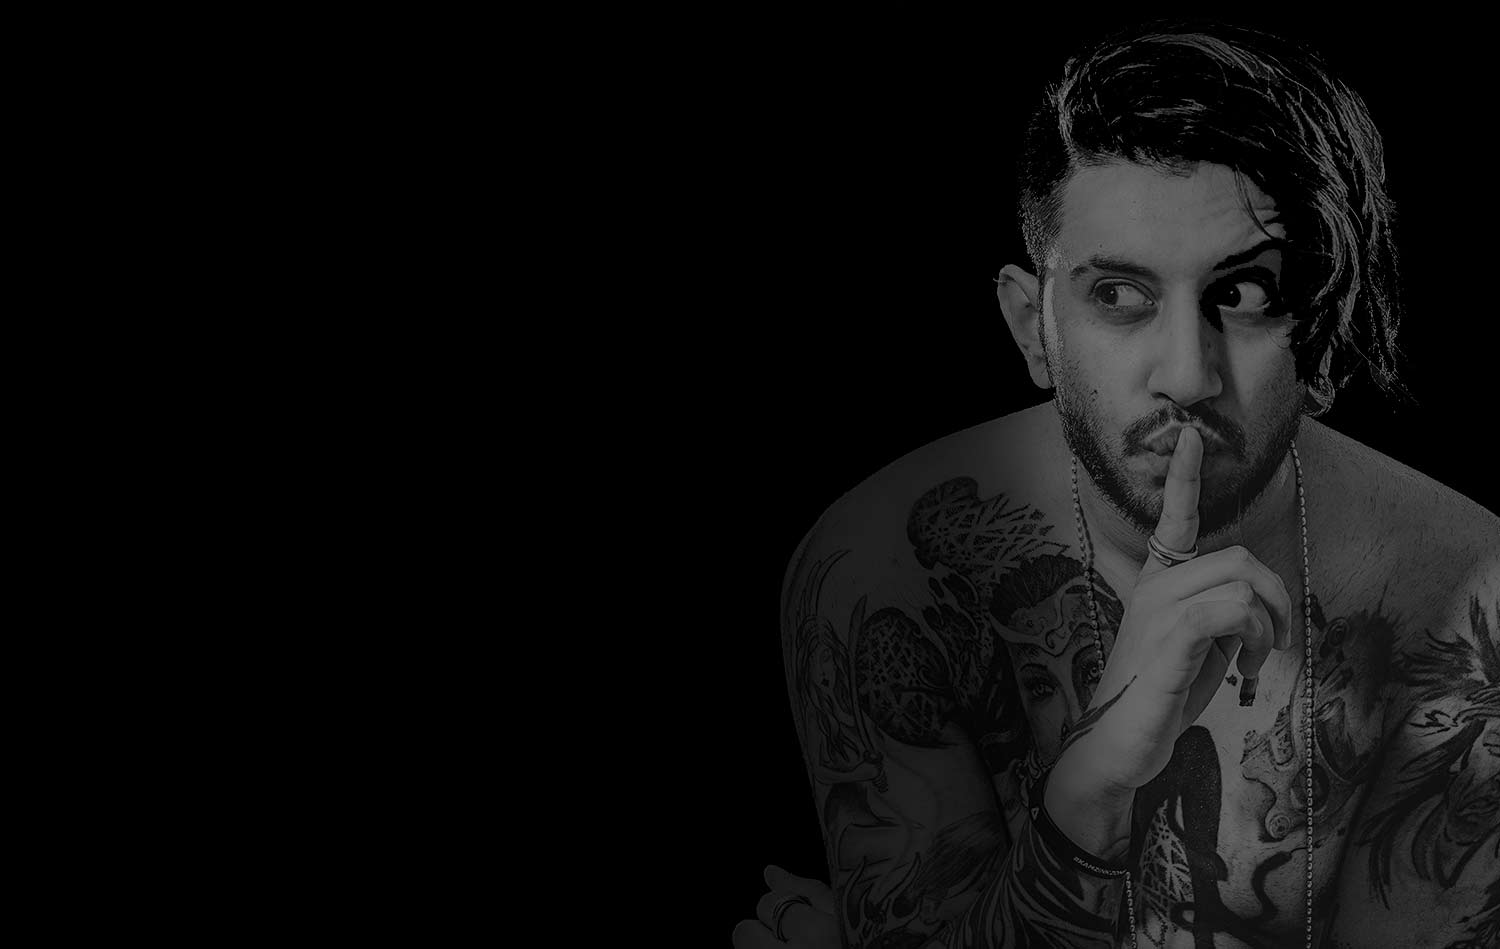
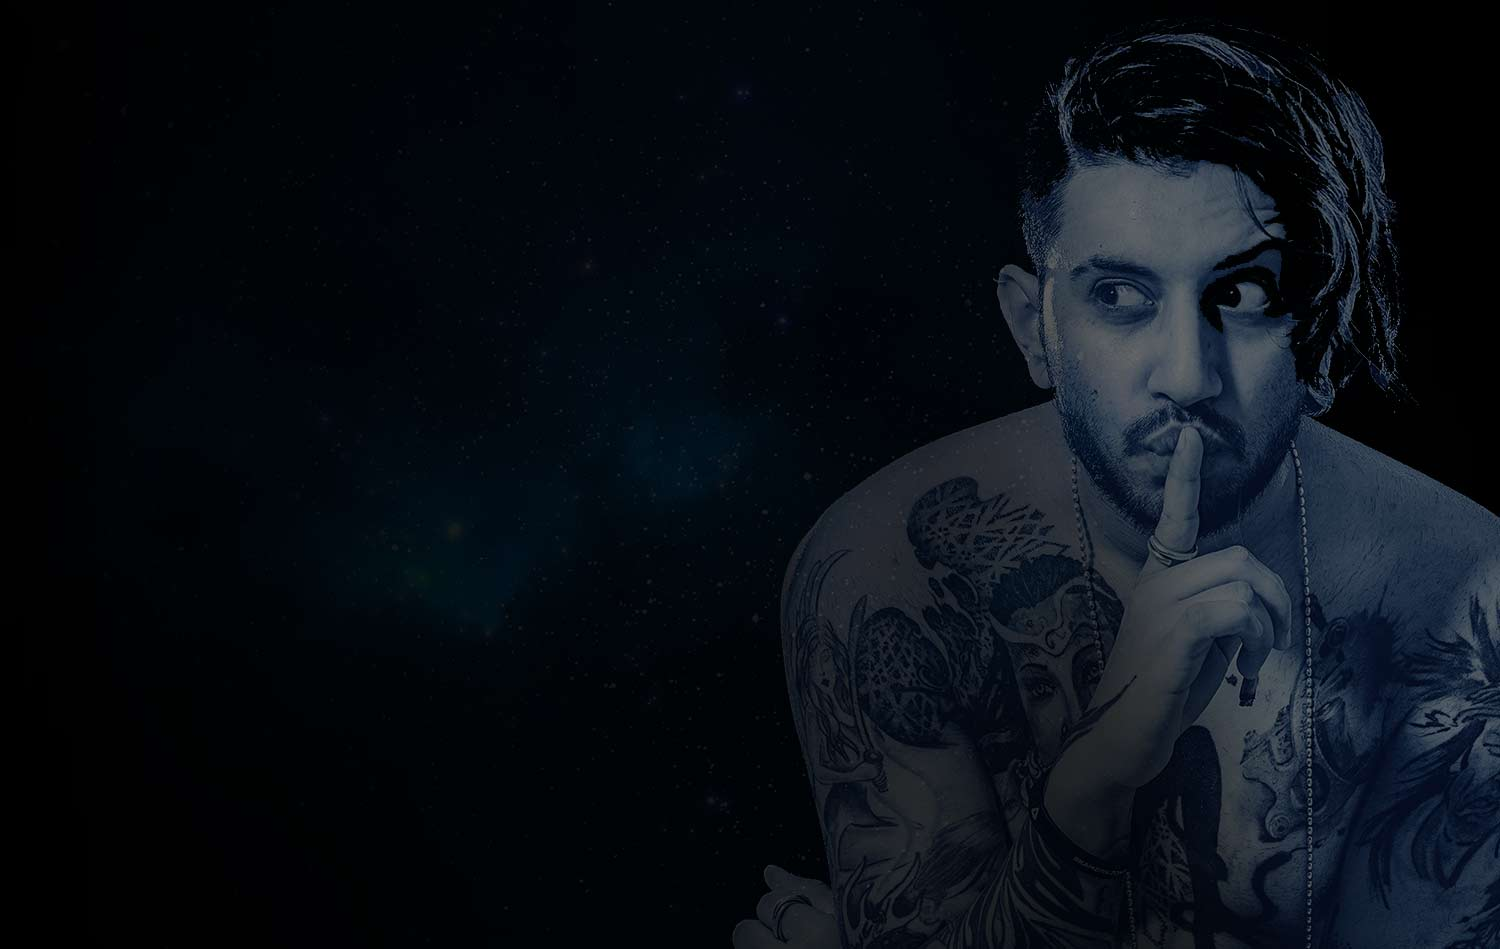
[blue ]: image pushed

diff --git a/index.html b/index.html
@@ -521,7 +521,7 @@
 						speed: 7000,
 						images: ['images/slider-1.jpg',
 								 'images/slider-2.jpg',
-								 'images/slider-4.jpg',]
+								 'images/slider-5.jpg',]
 					});
 				});
 				
